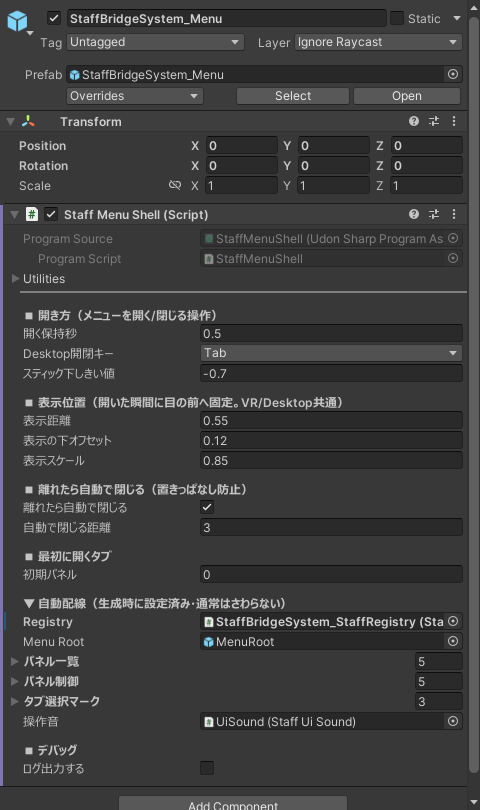
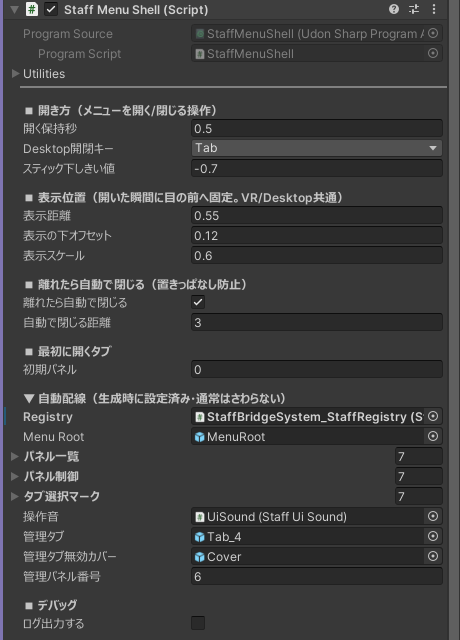
Staff Bridge System: Unity の窓と手元メニューの画像を入れる
文章だけで「編集タブの防音エリア欄」などを指していたため、実物を見ないと
どこを触るのか分からなかった。撮り直し11点・新規10点を追加する。

セットアップ窓（すべて現行UIで撮り直し）:
- setup-tab / doctor-tab は内容が変わっていたので差し替え
- edit-tab は用途別に分割（テーマ・チャンネル・防音エリア・一時停止・
  既定値・名簿）。customize.md から theme 版へ差し替えて旧ファイルは削除
- doctor-support（状態レポート）を新規追加
- Inspector 3点を撮り直し。旧版はエリアモード除去前で、消えたフィールドが
  写っていた

手元メニュー（Scene ビューで実物を撮影）:
- テレポート／インカム／メッセージ／設定／スタッフ管理の5タブ
- usage.md と for-staff.md は画像ゼロだったので、各節の先頭に置く

画像のあるページ: 4 → 9。images/ 合計 1.1MB。

diff --git a/docs/staff-bridge-system/for-staff.md b/docs/staff-bridge-system/for-staff.md
@@ -31,6 +31,10 @@
 
 メニューは**開いた瞬間に目の前へ固定**され、その後は追いかけてきません。開いた場所から離れると自動的に閉じます。もう一度同じ操作をすると閉じられます。
 
+![手元メニュー](images/menu-teleport.png)
+
+上のタブで画面を切り替えます。灰色になっているタブは、あなたには使えないものです。
+
 ## テレポート
 
 行き先の一覧から選んで移動します。
@@ -52,6 +56,8 @@
 ### チャンネルに参加する
 
 メニューでチャンネルを選ぶと参加できます。**声が届くのは同じチャンネルに参加している人だけ**です。どのチャンネルを使うかは主催の方の指示に従ってください。
+
+![インカムタブ](images/menu-incom.png)
 
 ### 話す
 
@@ -103,6 +109,8 @@
 ## 設定（自分だけの設定）
 
 設定タブでは、自分の使い勝手だけを調整できます。他のスタッフには影響しません。変更した内容は、同じワールドに入り直しても残ります。
+
+![設定タブ](images/menu-settings.png)
 
 | 項目 | 内容 |
 |---|---|

diff --git a/docs/staff-bridge-system/troubleshoot.md b/docs/staff-bridge-system/troubleshoot.md
@@ -104,6 +104,8 @@ BOOTH のメッセージ機能からご連絡ください。
 
 「診断・修復」タブの一番下にある **サポートに送る情報** で「状態レポートを作る」を押すと、調査に必要な情報が文章としてまとまります。「クリップボードにコピー」でコピーして、メッセージに貼り付けてください。
 
+![サポートに送る情報](images/doctor-support.png)
+
 - レポートに含まれるもの: 本製品・Unity・VRChat SDK・FukuroUdon のバージョン、診断結果、設置数、チャンネル構成、音声レギュレータの並び順、名簿の件数
 - **含まれないもの**: スタッフの表示名、PC 内のパス、ワールド ID
 - シーン名・チャンネル名・エリア名など、ご自身で付けた名前は含まれます。内容はその場で編集できるので、送りたくない行は消してからコピーしてください

diff --git a/docs/staff-bridge-system/howto.md b/docs/staff-bridge-system/howto.md
@@ -84,6 +84,10 @@
 | エリアの範囲そのものを直したい | 編集タブ ＞ 防音エリア ＞ **Sceneで選ぶ** を押し、Scene ビューで緑の枠を部屋に合わせる |
 | エリアを消したい | 対象を選んで `Tools ＞ MGR ＞ Staff Bridge System ＞ 防音エリアを削除（選択中）` |
 
+メガホンと無線の既定値は、編集タブの同じ欄にまとまっています。
+
+![編集タブの既定値欄](images/edit-defaults.png)
+
 ## 他の音声ギミックと同居させたい
 
 無線・メガホン・防音エリアは、どれもプレイヤーの声の設定を書き換えて動きます。同じことをする別のギミックとは取り合いになるため、その回だけ本製品側を止められます。

diff --git a/docs/staff-bridge-system/customize.md b/docs/staff-bridge-system/customize.md
@@ -2,7 +2,9 @@
 
 メニューの配色とフォントは、セットアップウィンドウの **「編集」タブ ＞ メニューの見た目（テーマ）** から変更します。
 
-![編集タブ](images/edit-tab.png)
+![編集タブのテーマ欄](images/edit-theme.png)
+
+テーマを選ぶと、その場でミニプレビューが更新されます。下の帯は左から **背景／面／ボタン／選択／発話／退出／文字／補足** の役割色です。
 
 ## テーマを選ぶ
 
